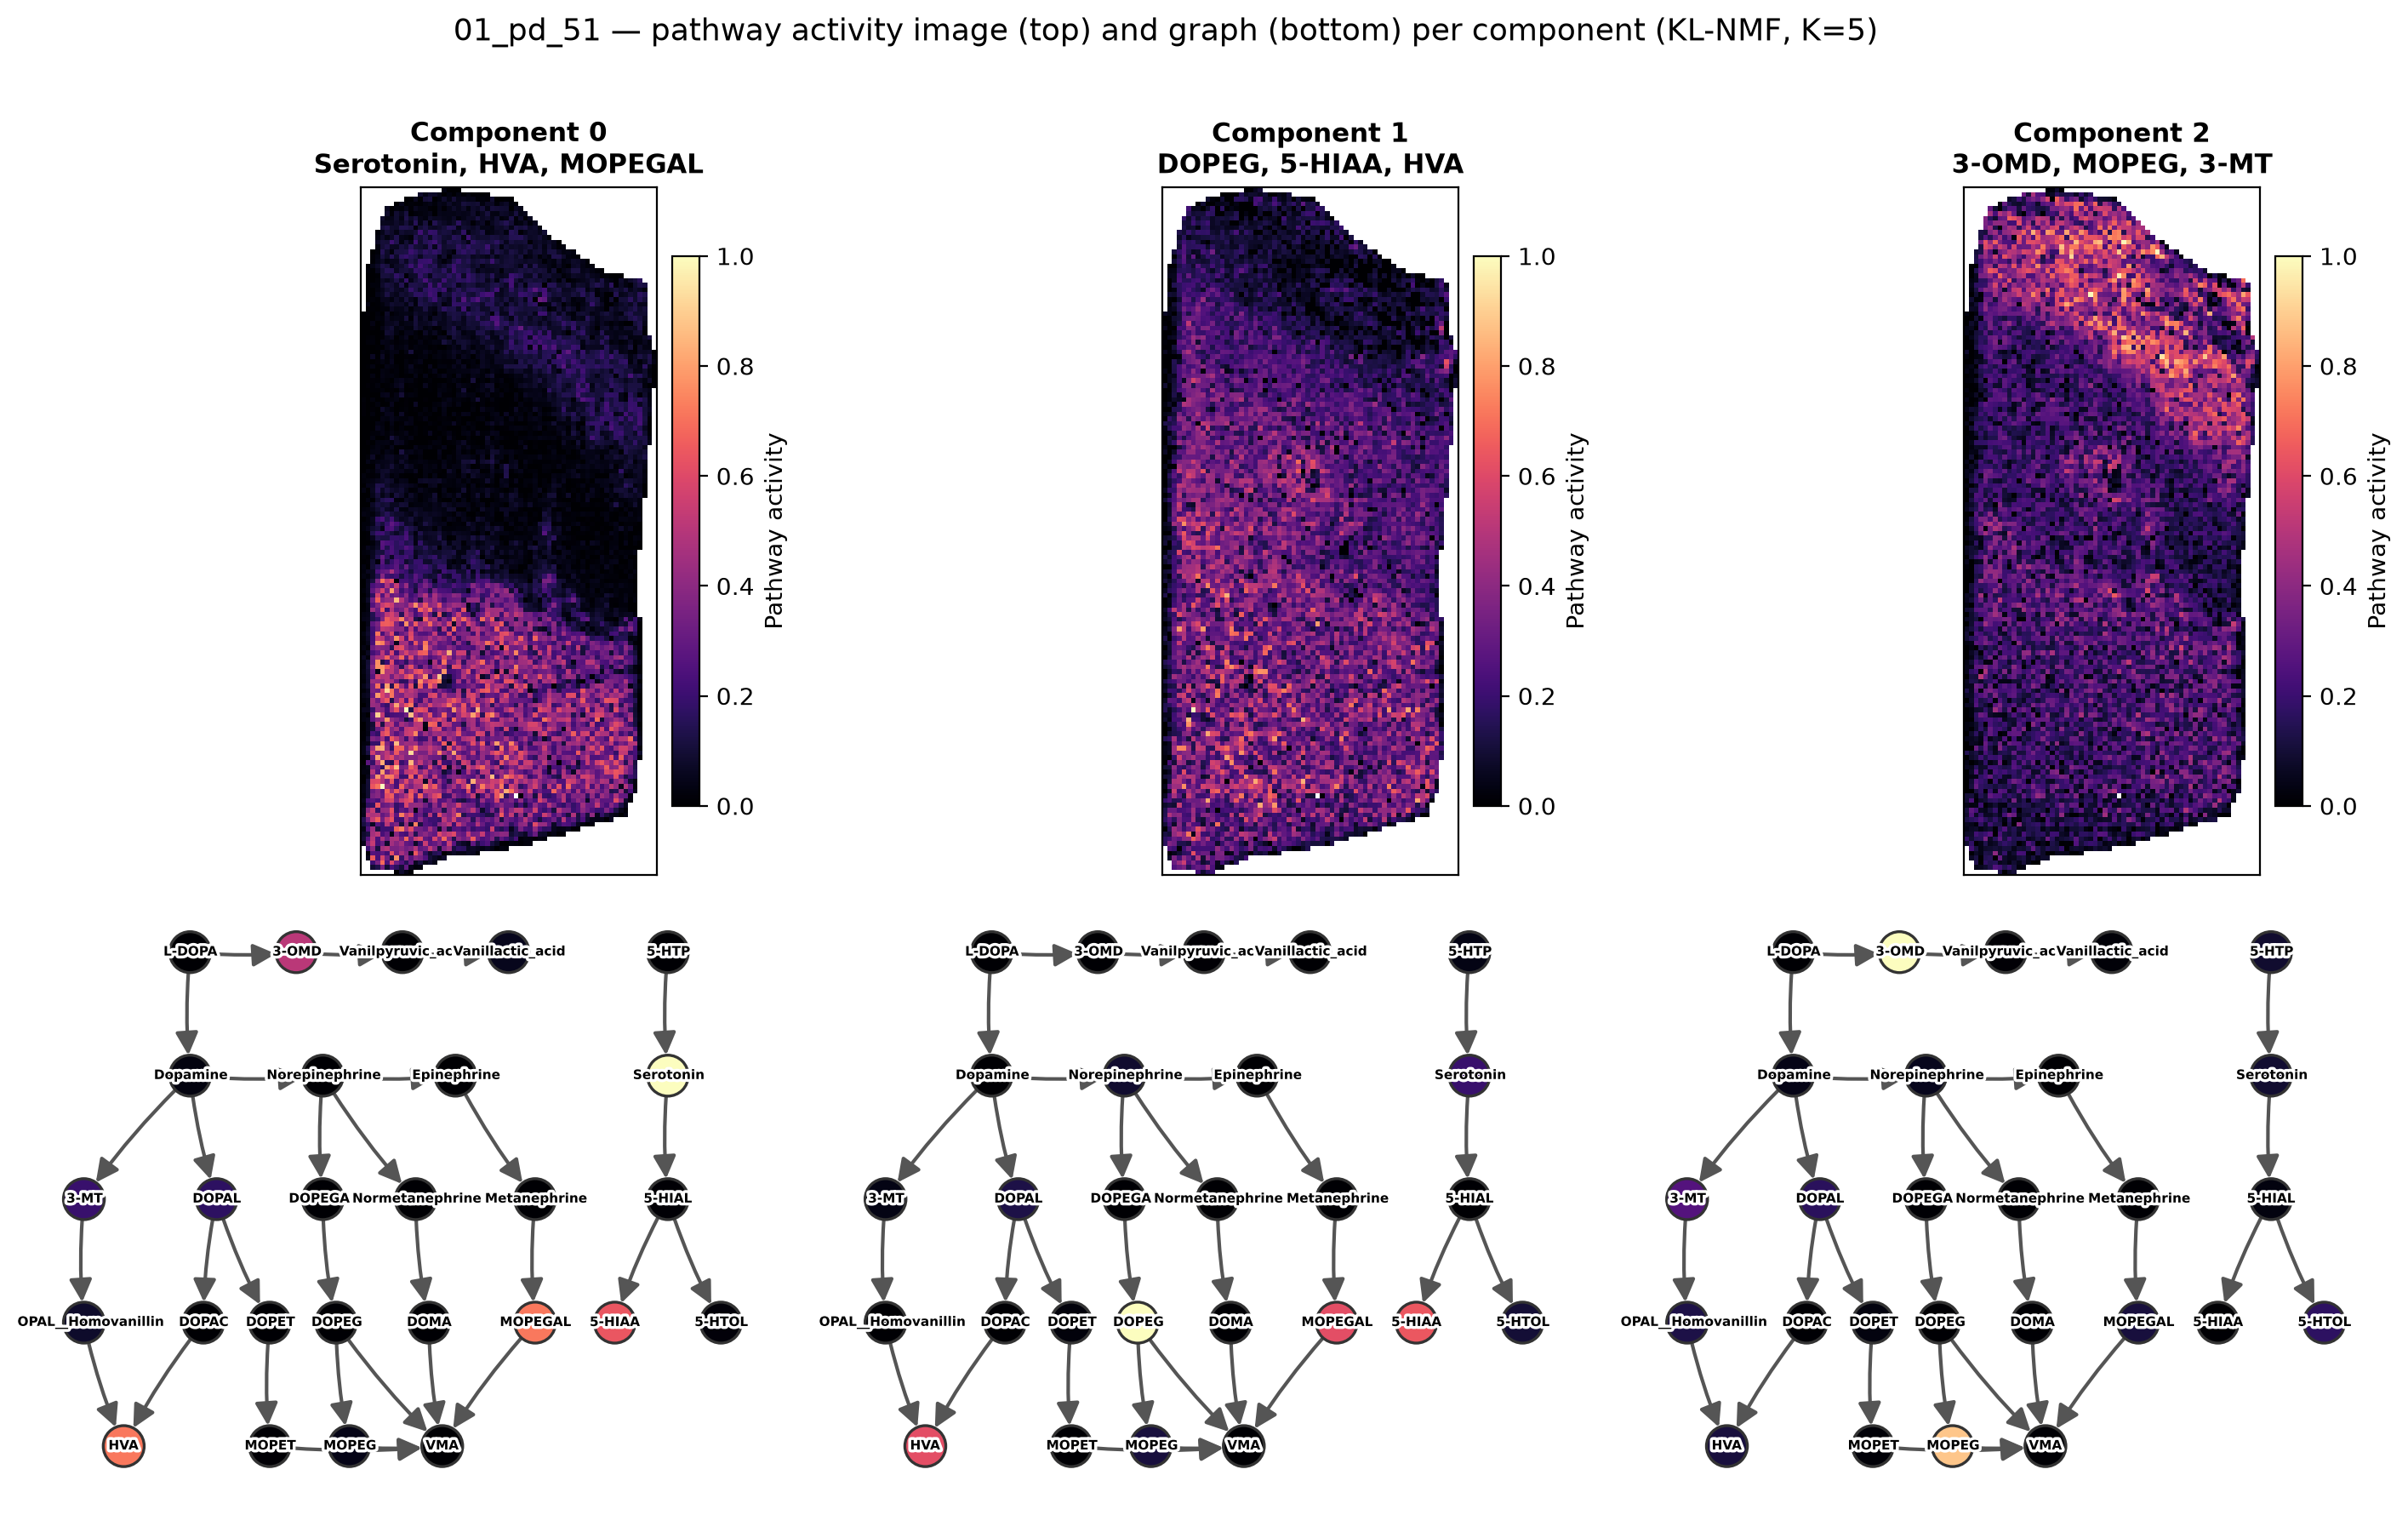
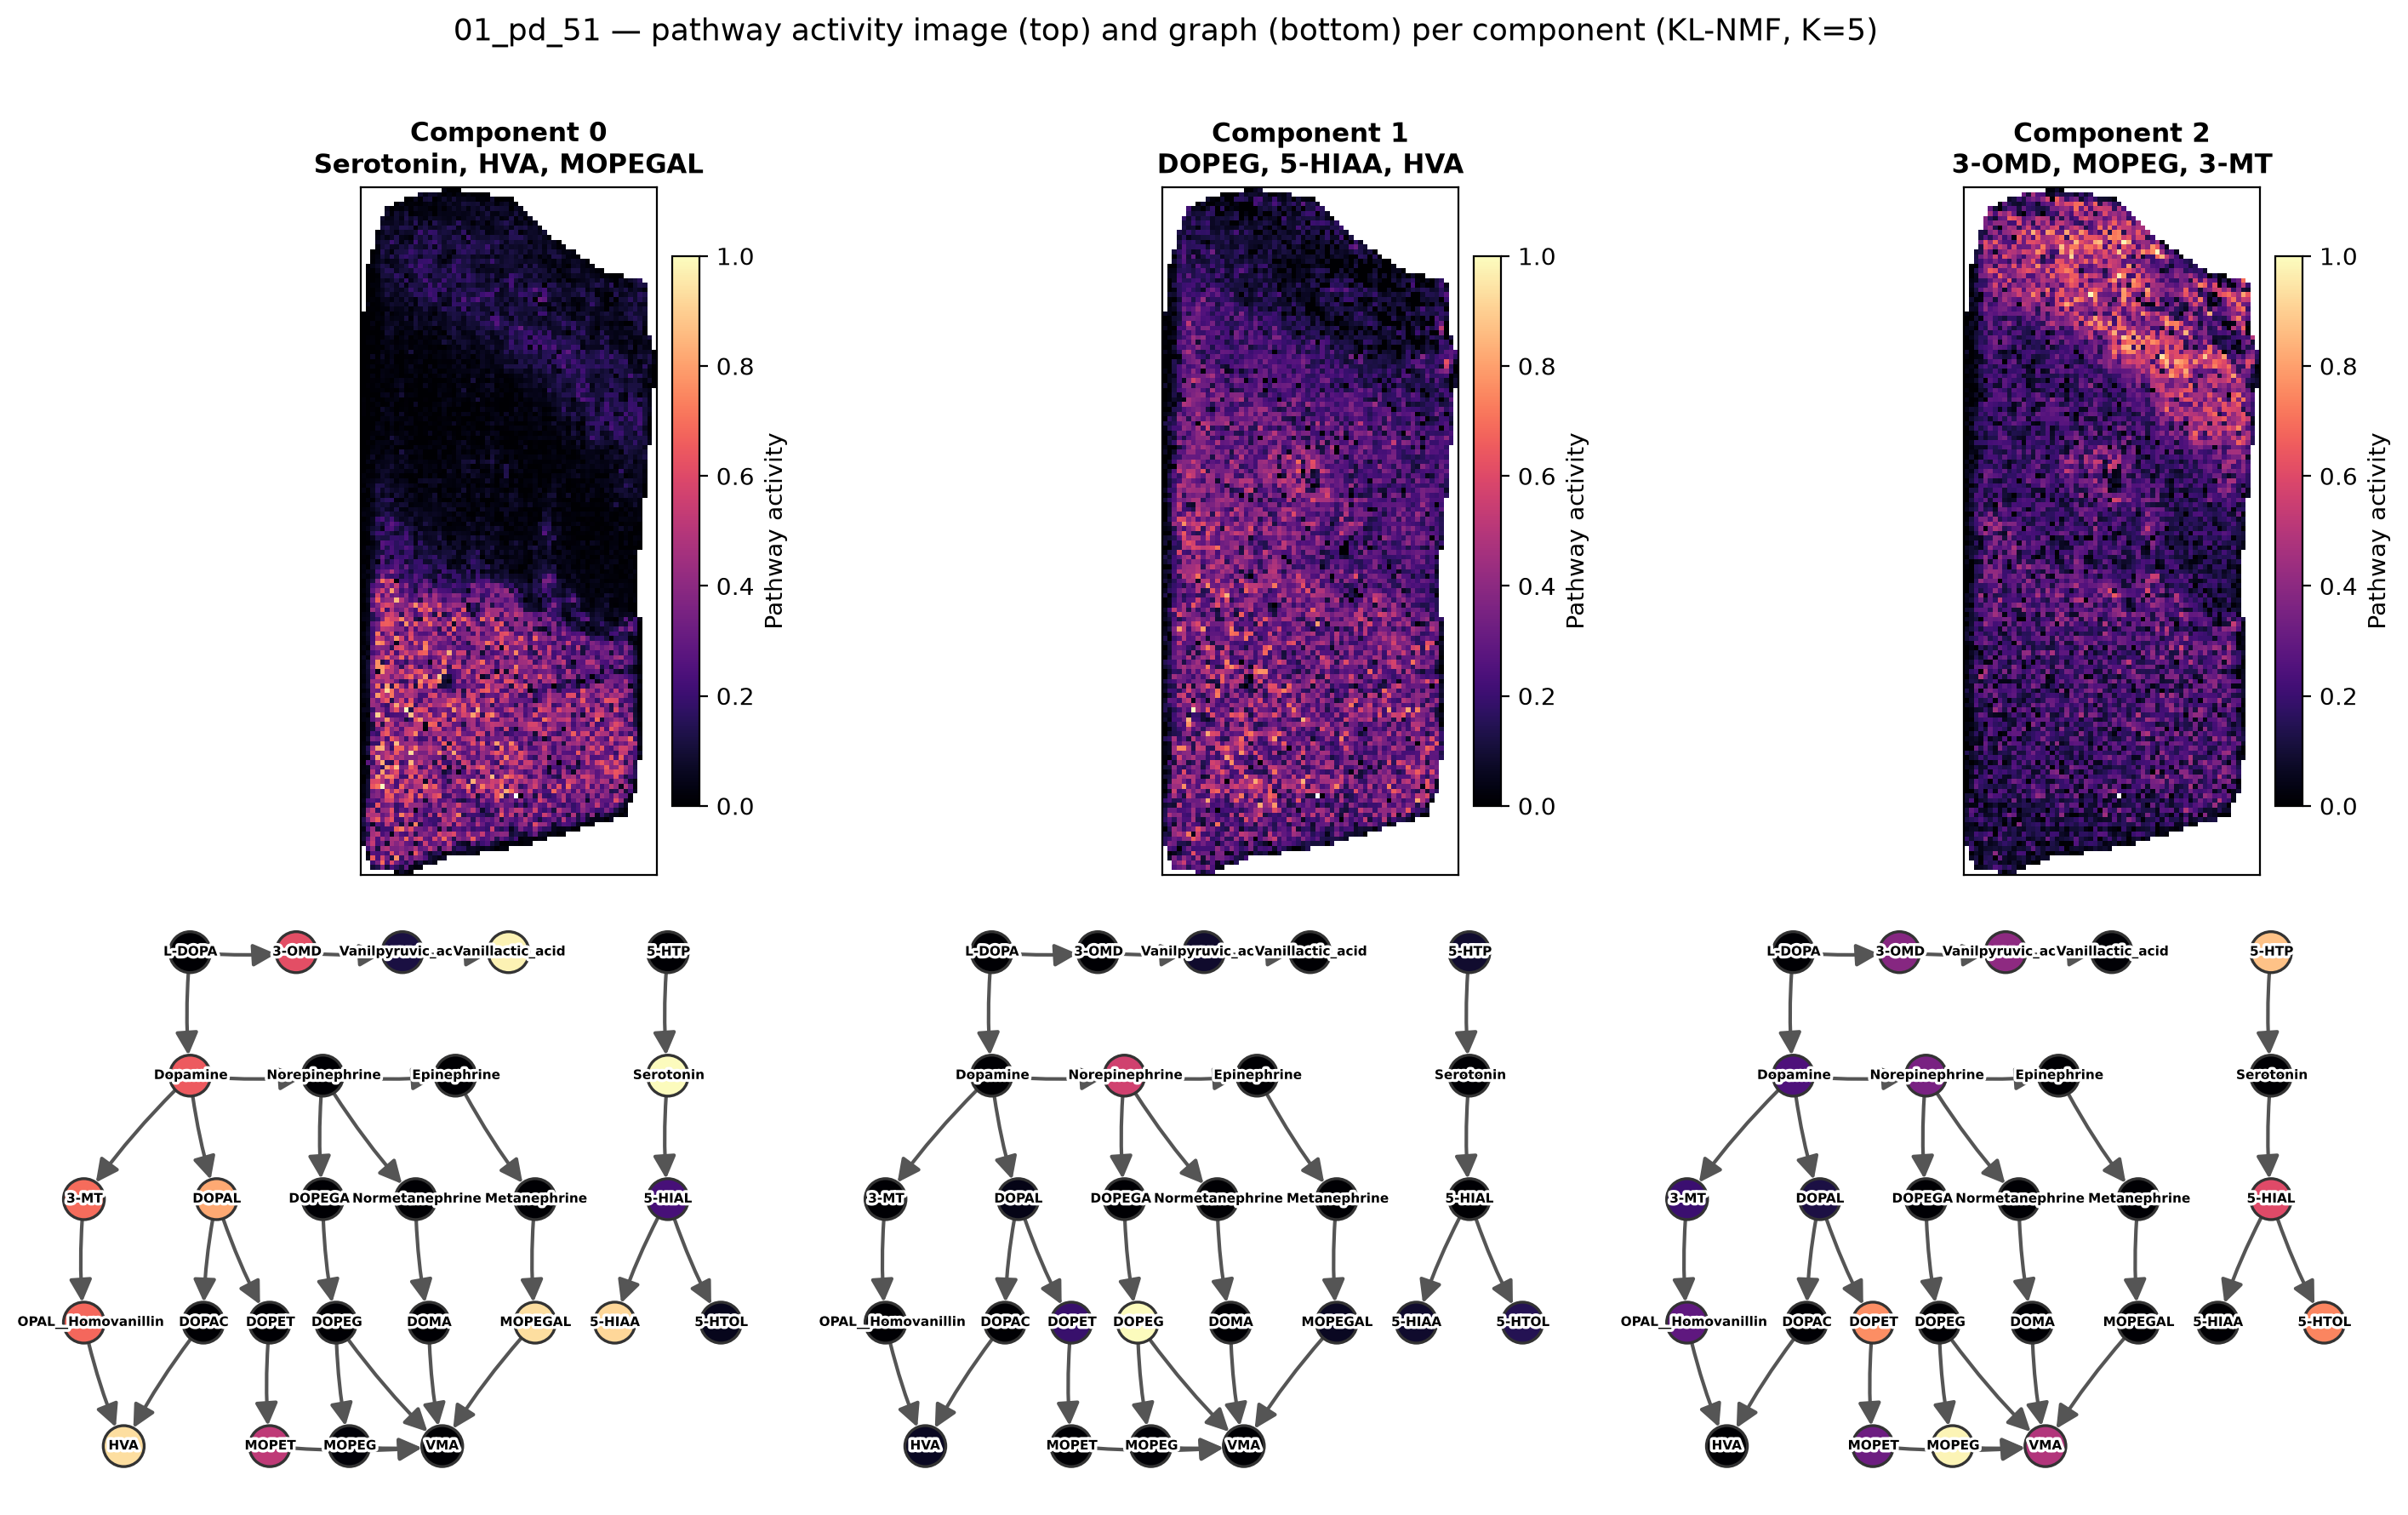
Colour pathway graphs by per-metabolite variation explained, not raw loading
Metabolite concentrations span orders of magnitude, so colouring graph nodes by the
raw loading V[k,:] saturates the scale on a few abundant ions and looks near-binary.

- decomposition/contributions.py: variation_explained(U, V) returns, per metabolite,
  the fraction of its variation each component explains,
  F[k,m] = V[k,m]^2 Var_p(U[:,k]) / sum_k' V[k',m]^2 Var_p(U[:,k']) in [0,1].
  Scale-invariant (V*||U|| cancels the NMF scale ambiguity) and, with normalize="sum",
  columns sum to 1 over components. modes: variance/energy; normalize: sum/max.
- illustration: draw_pathway gains vmin/vmax; illustrate_component gains
  graph_value="explained" (vs "loading") to colour nodes by F[k,:] on a fixed [0,1]
  scale with the matching colourbar label.
- make_figures.py: colour the manuscript graphs by F; main.tex Illustration section
  documents F (new Eq.) and the figure caption updated; CLAUDE.md note added.
- 4 new tests (sums-to-one, scale invariance, concentration-imbalance removal, max
  normalize); 30 tests pass.

Claude-Session: https://claude.ai/code/session_017kazqiJmWRSMd6GuMrKHH3

diff --git a/colorpath/decomposition/contributions.py b/colorpath/decomposition/contributions.py
@@ -1,0 +1,75 @@
+"""
+contributions.py — per-metabolite variation-explained scaling of component loadings.
+
+A component's spectral loading ``V[k, :]`` is on linear-abundance units, so when it is used
+directly to colour a pathway activity graph the few high-concentration metabolites saturate
+the colour scale and everything else looks uniformly dark (a near-binary appearance). For
+illustration it is usually more informative to ask, *per metabolite*, **how much of that
+metabolite's variation this component explains** — a quantity that is normalised away from
+absolute concentration.
+
+For metabolite ``m`` the rank-1 contribution of component ``k`` is the outer-product term
+``U[:, k] * V[k, m]`` over pixels; its variation (variance, or energy) is
+``V[k, m]^2 * Var_p(U[:, k])``. Normalising per metabolite gives
+
+    F[k, m] = V[k, m]^2 * s_k  /  sum_k' ( V[k', m]^2 * s_k' ) ,   s_k = Var_p(U[:, k])
+
+which lies in ``[0, 1]`` and, with ``normalize="sum"``, sums to 1 over components for each
+metabolite. The product ``V[k, m] * sqrt(s_k)`` is invariant to NMF's scale ambiguity
+(``U[:, k] -> cU[:, k]``, ``V[k, :] -> V[k, :]/c``), so ``F`` is well defined regardless of
+how the factors are normalised.
+
+Because NMF components are not in general orthogonal, the per-component variances do not
+exactly partition the metabolite's total variance (cross terms are dropped); ``F`` is
+therefore a normalised *share* among components, exact in the independent-component limit
+(see :class:`~colorpath.decomposition.nmf_independent.IndependentNMF`).
+"""
+
+from __future__ import annotations
+
+import numpy as np
+
+EPS = 1e-12
+
+
+def variation_explained(
+    U: np.ndarray,
+    V: np.ndarray,
+    mode: str = "variance",
+    normalize: str = "sum",
+) -> np.ndarray:
+    """Fraction of each metabolite's variation explained by each component.
+
+    Parameters
+    ----------
+    U         : (P, K) spatial scores.
+    V         : (K, M) spectral loadings.
+    mode      : ``"variance"`` weights each component by ``Var_p(U[:, k])`` (spatial
+                heterogeneity; the default, matching "variation"); ``"energy"`` weights by
+                ``sum_p U[:, k]^2`` (includes the mean level).
+    normalize : ``"sum"`` divides each metabolite's column by the total over components
+                (columns sum to 1 — "fraction explained"); ``"max"`` divides by the
+                largest component (the dominant component reads 1, others relative).
+
+    Returns
+    -------
+    F : (K, M) array in ``[0, 1]``. ``F[k, m]`` is the share of metabolite ``m``'s
+        variation attributable to component ``k``.
+    """
+    U = np.asarray(U, dtype=float)
+    V = np.asarray(V, dtype=float)
+    if mode == "variance":
+        s = U.var(axis=0)              # (K,)
+    elif mode == "energy":
+        s = (U ** 2).sum(axis=0)       # (K,)
+    else:
+        raise ValueError("mode must be 'variance' or 'energy'")
+
+    contrib = (V ** 2) * s[:, None]    # (K, M)
+    if normalize == "sum":
+        denom = contrib.sum(axis=0, keepdims=True)
+    elif normalize == "max":
+        denom = contrib.max(axis=0, keepdims=True)
+    else:
+        raise ValueError("normalize must be 'sum' or 'max'")
+    return contrib / np.maximum(denom, EPS)

diff --git a/tests/test_decomposition.py b/tests/test_decomposition.py
@@ -23,6 +23,7 @@ from colorpath.decomposition import (
     normalised_hsic_matrix,
     select_k,
     variance_vs_mean,
+    variation_explained,
 )
 from colorpath.decomposition.saturation import detect_saturation_ceiling
 
@@ -265,6 +266,43 @@ def test_independent_nmf_reduces_dependence():
     # ...without destroying the reconstruction.
     rel = np.linalg.norm(indep.reconstruct() - X) / np.linalg.norm(X)
     assert rel < 0.4
+
+
+def test_variation_explained_sums_to_one_per_metabolite():
+    rng = np.random.default_rng(0)
+    U = rng.random((100, 3))
+    V = rng.random((3, 8))
+    F = variation_explained(U, V, normalize="sum")
+    assert F.shape == (3, 8)
+    assert np.all((F >= 0) & (F <= 1))
+    assert np.allclose(F.sum(axis=0), 1.0)
+
+
+def test_variation_explained_scale_invariant():
+    rng = np.random.default_rng(1)
+    U = rng.random((80, 3)) + 0.1
+    V = rng.random((3, 6)) + 0.1
+    F = variation_explained(U, V)
+    # NMF scale ambiguity: U[:,k]*c, V[k,:]/c must leave the fractions unchanged.
+    c = np.array([5.0, 0.2, 3.0])
+    F2 = variation_explained(U * c, V / c[:, None])
+    assert np.allclose(F, F2)
+
+
+def test_variation_explained_removes_concentration_imbalance():
+    # One metabolite is 1000x more abundant but is "owned" by component 1, not 0.
+    U = np.abs(np.random.default_rng(2).standard_normal((200, 2))) + 0.05
+    V = np.array([[1.0, 0.0], [0.0, 1000.0]])  # m0 -> comp0, m1 -> comp1 (high conc.)
+    F = variation_explained(U, V)
+    # Despite m1's huge loading, component 0 explains ~none of its variation.
+    assert F[0, 1] < 0.05 and F[1, 1] > 0.95
+    assert F[0, 0] > 0.95
+
+
+def test_variation_explained_max_normalize():
+    rng = np.random.default_rng(3)
+    F = variation_explained(rng.random((50, 3)), rng.random((3, 5)), normalize="max")
+    assert np.allclose(F.max(axis=0), 1.0)
 
 
 def test_independent_nmf_linear_kernel_runs():

diff --git a/manuscript/main.tex b/manuscript/main.tex
@@ -177,12 +177,28 @@ interpretable linear-abundance units.
 \subsection{Illustration layer}
 \label{sec:illustration}
 
-Each fitted component is rendered as the two objects above. The pathway activity graph
-colours a metabolite-reaction network by $V_{k,:}$; the pathway activity image reshapes
-$U_{:,k}$ onto the acquisition grid as a heatmap, supporting non-rectangular tissue through
-an explicit pixel-index map. A single bridge call (\code{illustrate\_component}) produces
-both views from a fitted result, so the decomposition and visualisation layers are decoupled
-but composable.
+Each fitted component is rendered as the two objects above. The pathway activity image
+reshapes $U_{:,k}$ onto the acquisition grid as a heatmap, supporting non-rectangular tissue
+through an explicit pixel-index map. The pathway activity graph colours a metabolite-reaction
+network; colouring nodes by the raw loading $V_{k,:}$ is uninformative because metabolite
+concentrations span several orders of magnitude, so a handful of abundant ions saturate the
+colour scale and the rest appear uniformly dark. We instead colour each metabolite by the
+\emph{fraction of its own variation that the component explains},
+\begin{equation}
+  F_{k,m} \;=\; \frac{V_{k,m}^2\,\operatorname{Var}_p\!\big(U_{:,k}\big)}
+                     {\sum_{k'} V_{k',m}^2\,\operatorname{Var}_p\!\big(U_{:,k'}\big)}
+            \;\in[0,1],
+  \label{eq:explained}
+\end{equation}
+the variance of component $k$'s rank-1 contribution $U_{:,k}V_{k,m}$ to metabolite $m$,
+normalised per metabolite so that the columns sum to one over components. The product
+$V_{k,m}\lVert U_{:,k}\rVert$ is invariant to the NMF scale ambiguity, so $F_{k,m}$ is well
+defined; it places every metabolite on a common $[0,1]$ scale, so a low-abundance ion
+``owned'' by a component reads as brightly as an abundant one. (As the components are not
+orthogonal, $F$ is a normalised share rather than an exact variance partition, exact in the
+independent-component limit of Section~\ref{sec:independence}.) A single bridge call
+(\code{illustrate\_component}) produces both views from a fitted result, so the decomposition
+and visualisation layers are decoupled but composable.
 
 \subsection{Diagnostics}
 \label{sec:diagnostics}
@@ -357,9 +373,12 @@ as an active tool when they do not.
   components 0--2, placed back on the $62 \times 144$ tissue grid (KL-NMF, $K = 5$) and
   titled with the component's top-3 metabolites --- the three components occupy distinct
   tissue domains (a lower band, a diffuse distribution, and an upper band). Bottom row,
-  directly beneath each image: the matching spectral loading $V_{k,:}$ colouring the
-  catecholamine/serotonin reaction network (brighter $=$ higher loading; hand-laid layout,
-  labels haloed for contrast). Regenerate from the source parquet with
+  directly beneath each image: the matching pathway activity graph over the
+  catecholamine/serotonin reaction network, with each metabolite coloured by the fraction
+  $F_{k,m}\in[0,1]$ of its variation explained by the component (Equation~\ref{eq:explained}) rather than by
+  the raw loading; this removes the concentration imbalance that otherwise renders the
+  colouring near-binary (hand-laid layout, labels haloed for contrast). Regenerate from the
+  source parquet with
   \code{python manuscript/make\_figures.py <parquet>}.}
   \label{fig:overview}
 \end{figure}

diff --git a/colorpath/illustration/bridge.py b/colorpath/illustration/bridge.py
@@ -20,6 +20,7 @@ from typing import Sequence
 
 import numpy as np
 
+from ..decomposition.contributions import variation_explained
 from .pathway_graph import draw_pathway
 from .pathway_image import render_pathway_activity_image
 
@@ -53,6 +54,7 @@ def illustrate_component(
     graph_colormap: str = "RdYlGn",
     image_colormap: str = "viridis",
     title_prefix: str = "Pathway component",
+    graph_value: str = "loading",
     graph_kwargs: dict | None = None,
     image_kwargs: dict | None = None,
 ) -> dict[str, str]:
@@ -74,6 +76,11 @@ def illustrate_component(
     pixel_index      : optional flat pixel indices for an irregular grid.
     graph_colormap / image_colormap : colormaps for the two views.
     title_prefix     : prefix for both figure titles.
+    graph_value      : what the graph nodes encode. ``"loading"`` (default) colours by the
+                       raw loading ``V[k, :]`` (linear-abundance units); ``"explained"``
+                       colours by the per-metabolite fraction of variation explained by the
+                       component (:func:`variation_explained`), in [0, 1] — this removes the
+                       concentration imbalance that makes the raw loading look near-binary.
     graph_kwargs     : extra keyword arguments forwarded to
                        :func:`pathway_graph.draw_pathway` (e.g. ``figsize``,
                        ``node_size``, ``font_size``, ``layout``).
@@ -100,10 +107,21 @@ def illustrate_component(
             f"metabolite_names has {len(metabolite_names)} entries but V has {M} columns"
         )
 
-    loading = Vmat[component, :]
     scores = Umat[:, component]
 
-    abundance = {name: float(loading[j]) for j, name in enumerate(metabolite_names)}
+    if graph_value == "explained":
+        F = variation_explained(Umat, Vmat)          # (K, M) in [0, 1]
+        node_values = F[component, :]
+        graph_units = "fraction of variation explained"
+        vlim = dict(vmin=0.0, vmax=1.0)
+    elif graph_value == "loading":
+        node_values = Vmat[component, :]
+        graph_units = units
+        vlim = {}
+    else:
+        raise ValueError("graph_value must be 'loading' or 'explained'")
+
+    abundance = {name: float(node_values[j]) for j, name in enumerate(metabolite_names)}
 
     graph_output = graph_output or f"component_{component}_graph.svg"
     image_output = image_output or f"component_{component}_image.svg"
@@ -115,7 +133,8 @@ def illustrate_component(
         output=graph_output,
         title=f"{title_prefix} {component} — activity graph",
         positions=positions,
-        colorbar_label=units,
+        colorbar_label=graph_units,
+        **vlim,
         **(graph_kwargs or {}),
     )
     render_pathway_activity_image(

diff --git a/manuscript/make_figures.py b/manuscript/make_figures.py
@@ -28,7 +28,7 @@ import pandas as pd
 
 sys.path.insert(0, os.path.dirname(os.path.dirname(os.path.abspath(__file__))))
 
-from colorpath.decomposition import LinearNMF
+from colorpath.decomposition import LinearNMF, variation_explained
 from colorpath.illustration import (
     CATECHOLAMINE_SEROTONIN_EDGES,
     CATECHOLAMINE_SEROTONIN_POSITIONS,
@@ -56,6 +56,10 @@ def main(parquet_path: str):
     rel = np.linalg.norm(res.reconstruct() - X) / np.linalg.norm(X)
     print(f"KL-NMF K={K}: relative reconstruction error = {rel:.3f}")
 
+    # Per-metabolite fraction of variation explained by each component (scale-invariant,
+    # so it is computed from the raw fit before any cosmetic renormalisation).
+    F = variation_explained(res.U, res.V)            # (K, M) in [0, 1]
+
     # Normalise each component (unit-max spatial map; scale folded into loadings).
     U, V = res.U.copy(), res.V.copy()
     for k in range(K):
@@ -78,13 +82,14 @@ def main(parquet_path: str):
             colormap="magma", ax=axes[0][k], colorbar=True, title_fontsize=11,
             title=f"Component {k}\n" + ", ".join(top),
         )
-        # bottom row: smaller pathway activity graph
-        abundance = {m: float(V[k, j]) for j, m in enumerate(mets)}
+        # bottom row: smaller pathway activity graph, coloured by the per-metabolite
+        # fraction of variation this component explains (0-1), not the raw loading.
+        abundance = {m: float(F[k, j]) for j, m in enumerate(mets)}
         draw_pathway(
             pathway=CATECHOLAMINE_SEROTONIN_EDGES, abundance=abundance,
             positions=CATECHOLAMINE_SEROTONIN_POSITIONS, colormap="magma",
             node_size=300, font_size=5.5, ax=axes[1][k], colorbar=False,
-            title="", label_halo=True,
+            title="", label_halo=True, vmin=0.0, vmax=1.0,
         )
     fig.suptitle("01_pd_51 — pathway activity image (top) and graph (bottom) per component "
                  "(KL-NMF, K=5)", fontsize=13)

diff --git a/colorpath/illustration/pathway_graph.py b/colorpath/illustration/pathway_graph.py
@@ -39,6 +39,8 @@ def draw_pathway(
     ax=None,
     colorbar: bool = True,
     title_fontsize: int = 13,
+    vmin: float | None = None,
+    vmax: float | None = None,
 ) -> None:
     """
     Draw a pathway graph with nodes colored by abundance.
@@ -64,6 +66,8 @@ def draw_pathway(
                 several components into one figure).
     colorbar  : whether to attach a colour bar.
     title_fontsize : title font size.
+    vmin, vmax : fix the colour-scale limits (e.g. 0 and 1 for a fraction); when None they
+                 are taken from the data range.
     """
     G = nx.DiGraph()
     G.add_edges_from(pathway)
@@ -91,8 +95,10 @@ def draw_pathway(
     values = [abundance.get(n, np.nan) for n in nodes]
 
     known = [v for v in values if not np.isnan(v)]
-    vmin = min(known) if known else 0
-    vmax = max(known) if known else 1
+    if vmin is None:
+        vmin = min(known) if known else 0
+    if vmax is None:
+        vmax = max(known) if known else 1
 
     cmap = matplotlib.colormaps[colormap]
     norm = mcolors.Normalize(vmin=vmin, vmax=vmax)

diff --git a/colorpath/decomposition/__init__.py b/colorpath/decomposition/__init__.py
@@ -49,6 +49,7 @@ from .diagnostics import (
     variance_vs_mean,
 )
 from .selection import KSelectionResult, select_k
+from .contributions import variation_explained
 
 __all__ = [
     # losses
@@ -68,4 +69,6 @@ __all__ = [
     "compensation_artifact_check", "component_recovery",
     # selection
     "KSelectionResult", "select_k",
+    # interpretation / illustration scaling
+    "variation_explained",
 ]

diff --git a/CLAUDE.md b/CLAUDE.md
@@ -73,7 +73,12 @@ Each rank-1 component `U[:,k] ⊗ V[k,:]` is interpreted as a **pathway**:
 - `U[:,k]` — the **pathway activity image** (where in the tissue the pathway is active) →
   `colorpath.illustration.render_pathway_activity_image`.
 
-`illustrate_component` renders both from a fitted result. The factorisation must satisfy
+`illustrate_component` renders both from a fitted result. Because metabolite concentrations
+span orders of magnitude, colouring graph nodes by the raw loading `V[k,:]` looks near-binary
+(a few abundant ions saturate the scale); pass `graph_value="explained"` to colour each
+metabolite instead by the **fraction of its variation the component explains**
+(`decomposition.variation_explained`: `V[k,m]²·Var_p(U[:,k])` normalised per metabolite,
+∈[0,1], scale-invariant). The factorisation must satisfy
 two properties the conventional PCA/ICA/NNMF (or "log-then-PCA") baseline does **not**.
 
 ### 1.1 The two requirements that drive the design